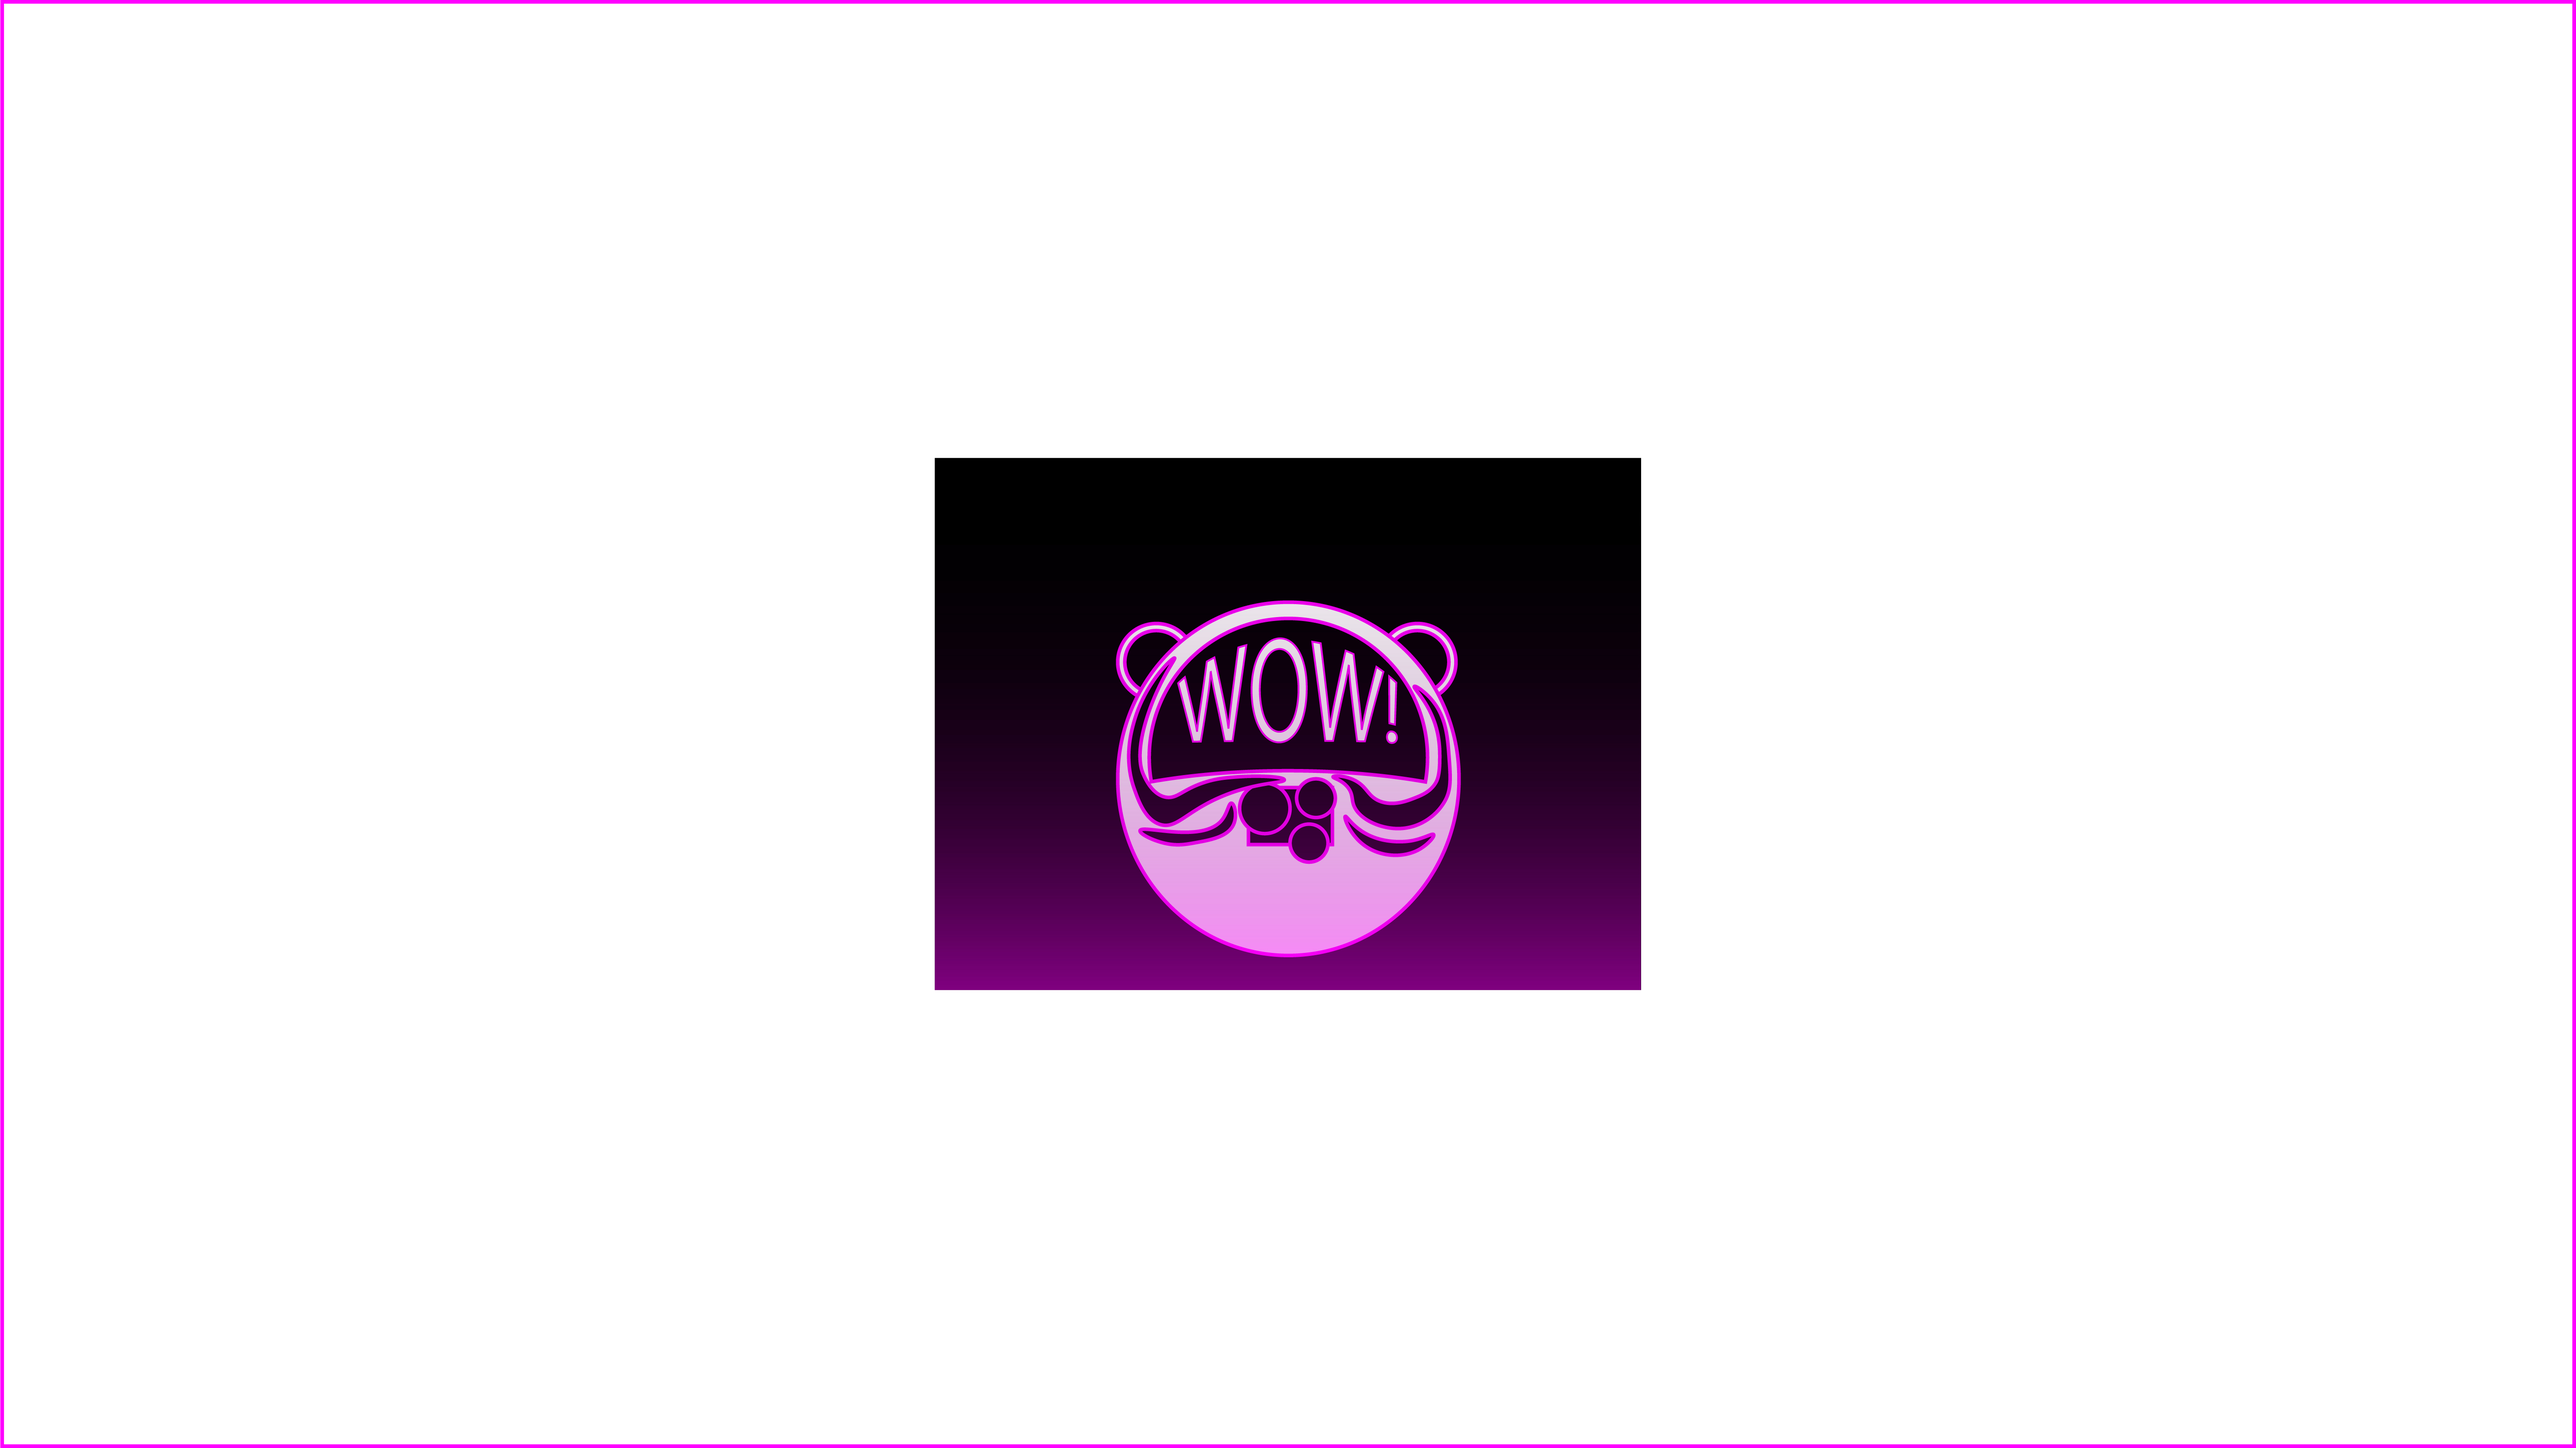
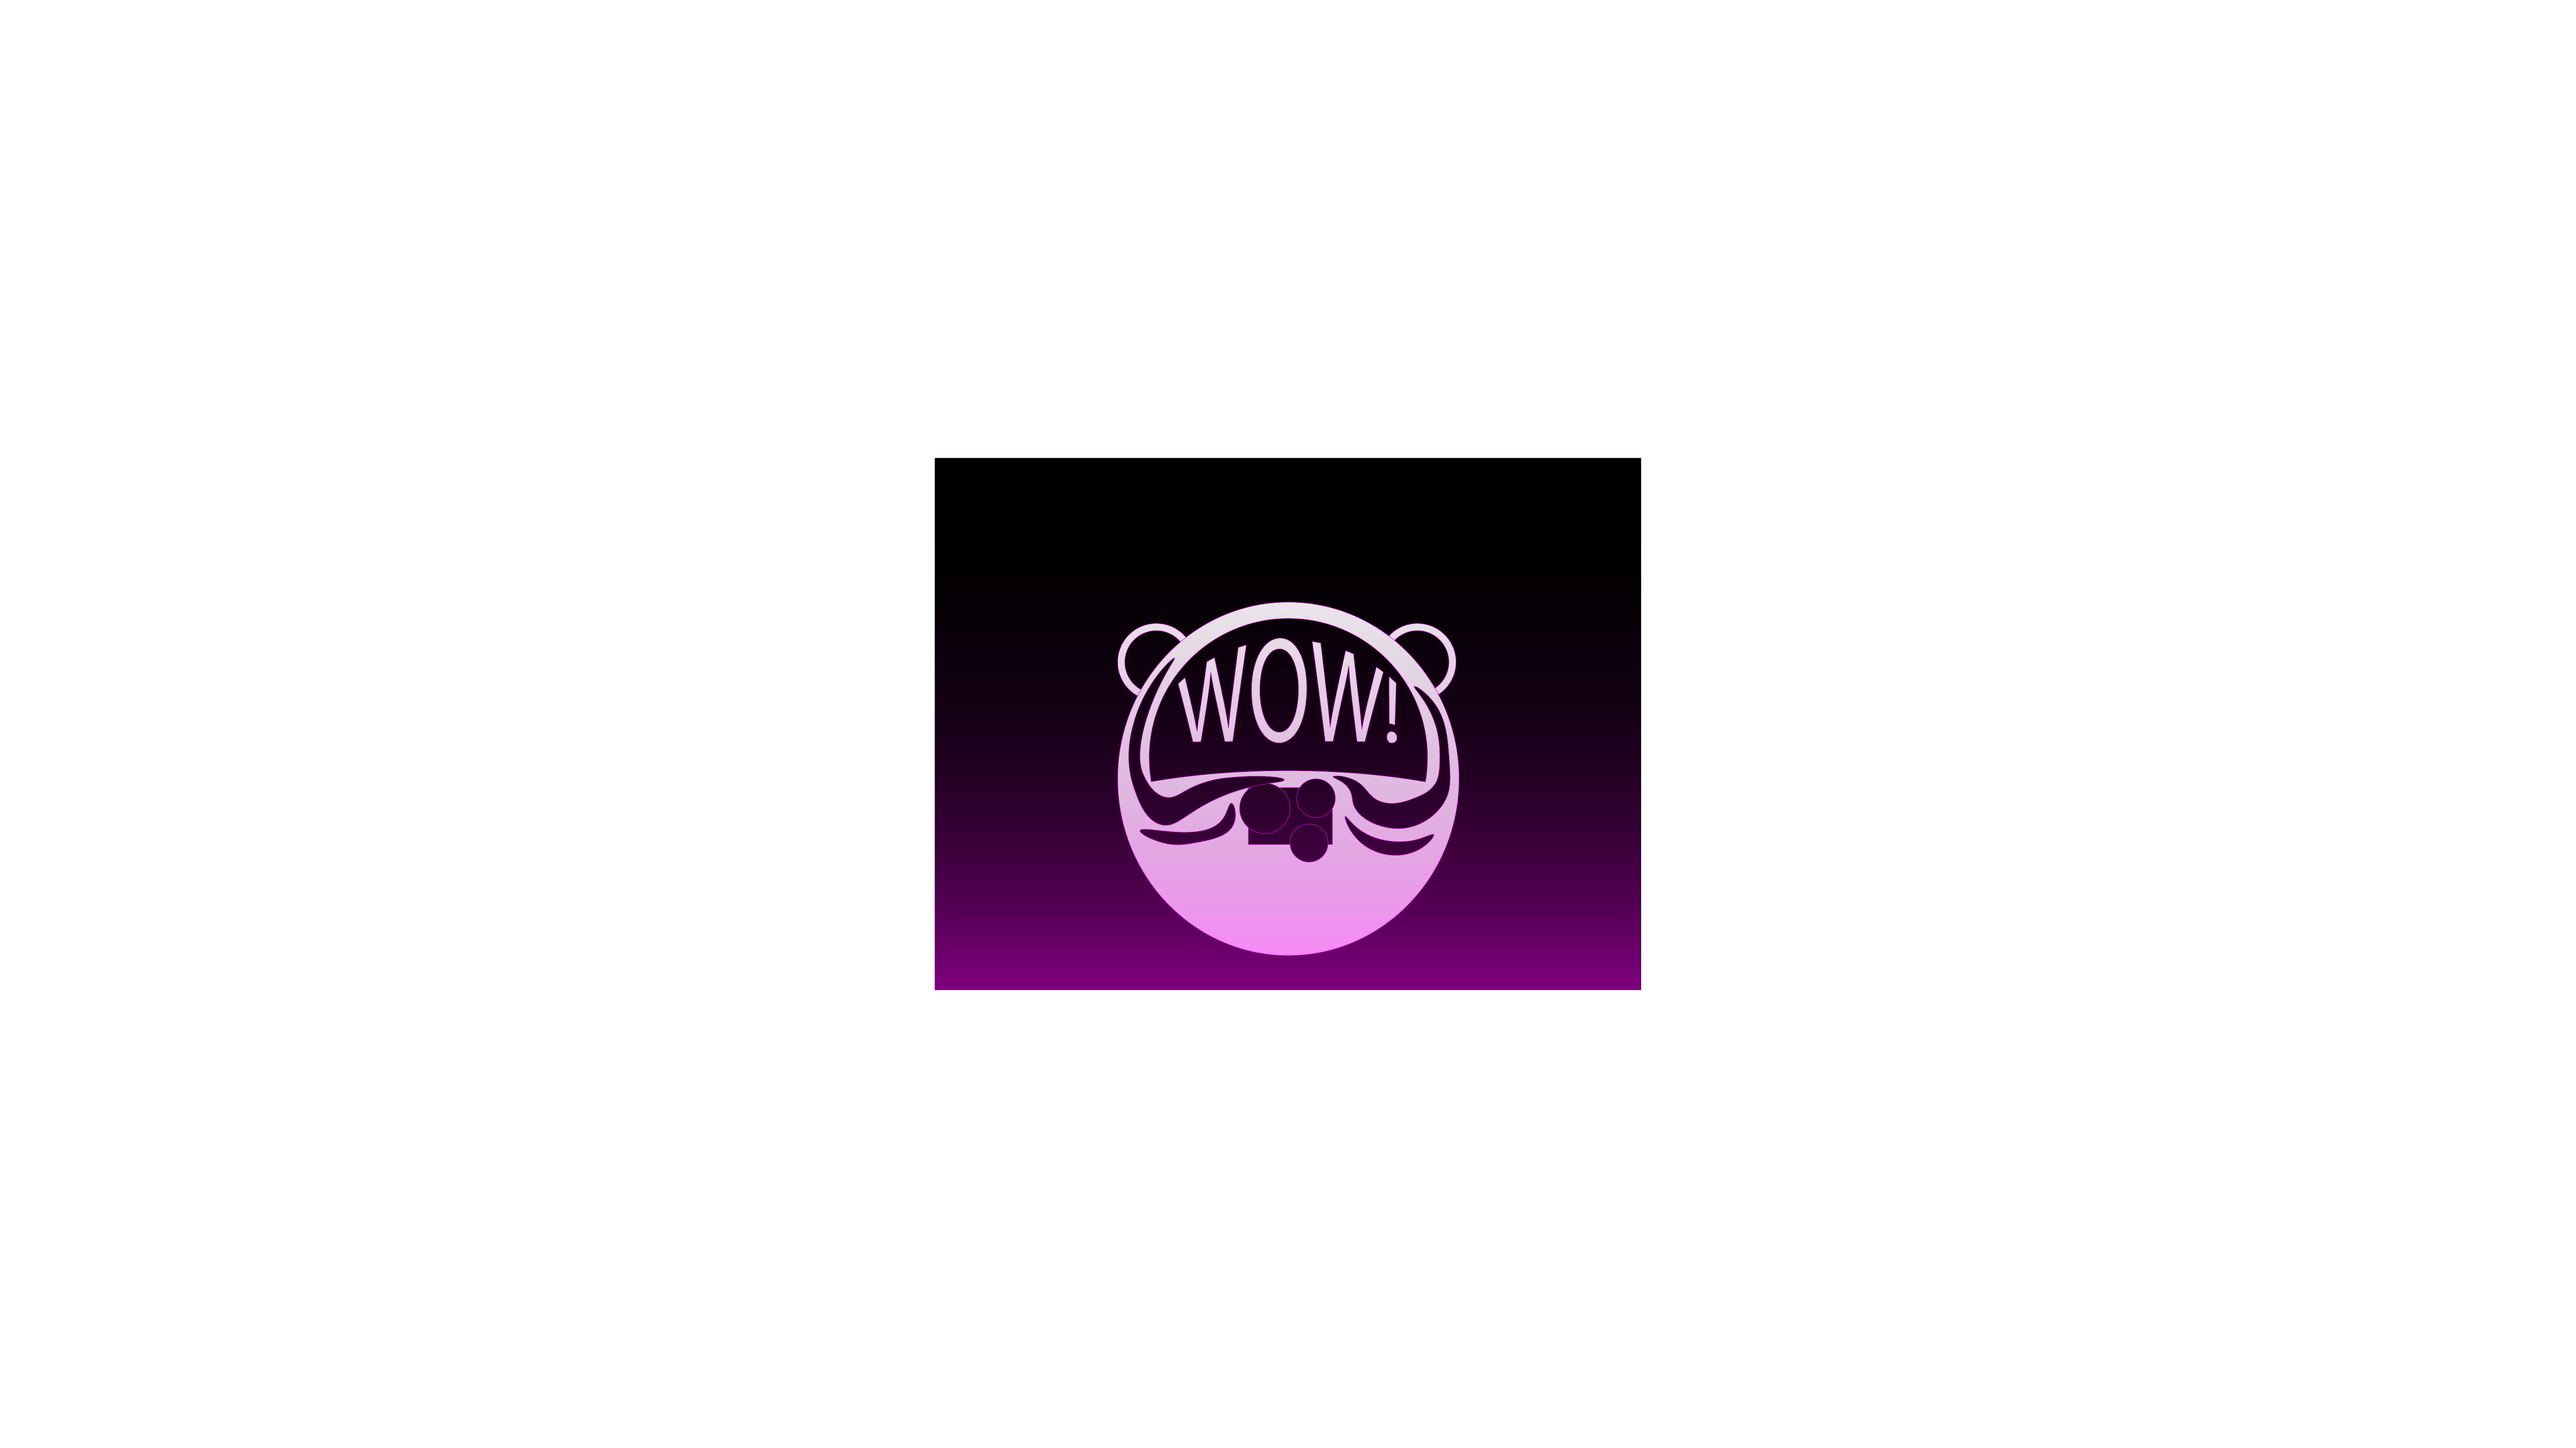
animate

Changed region(s): [[0.0, 0.0, 1.0, 1.0], [0.4354, 0.4041, 0.5598, 0.5906], [0.0, 0.0, 0.0311, 0.0311]]

diff --git a/style.css b/style.css
@@ -289,11 +289,21 @@ div {
 
 .space {
     height: 100vh;
-    background-image: url(AF.jpg);
     background-attachment: fixed;
     /* background-position: center; */
     background-position: 50% 55%;
     /* position: relative; */
+    animation-name: change;
+    animation-duration: 7s;
+    animation-iteration-count: infinite;
+}
+
+@keyframes change {
+    0% {background-image: url(AF.jpg);}
+    25% {background-image: url(AG.jpg);}
+    50% {background-image: url(AT.jpg);}
+    75% {background-image: url(AG.jpg);}
+    100% {background-image: url(AF.jpg);}
 }
 
 .swipe {
@@ -404,12 +414,12 @@ div {
 }
 
 .scroll {
-    /* height: 100vh; */
+    width: auto;
     overflow-x: scroll;
     overflow-y: hidden;
     display: flex;
     align-items: center;
-    justify-content: center;
+    /* justify-content: center; */
 }
 
 .scroll img {
